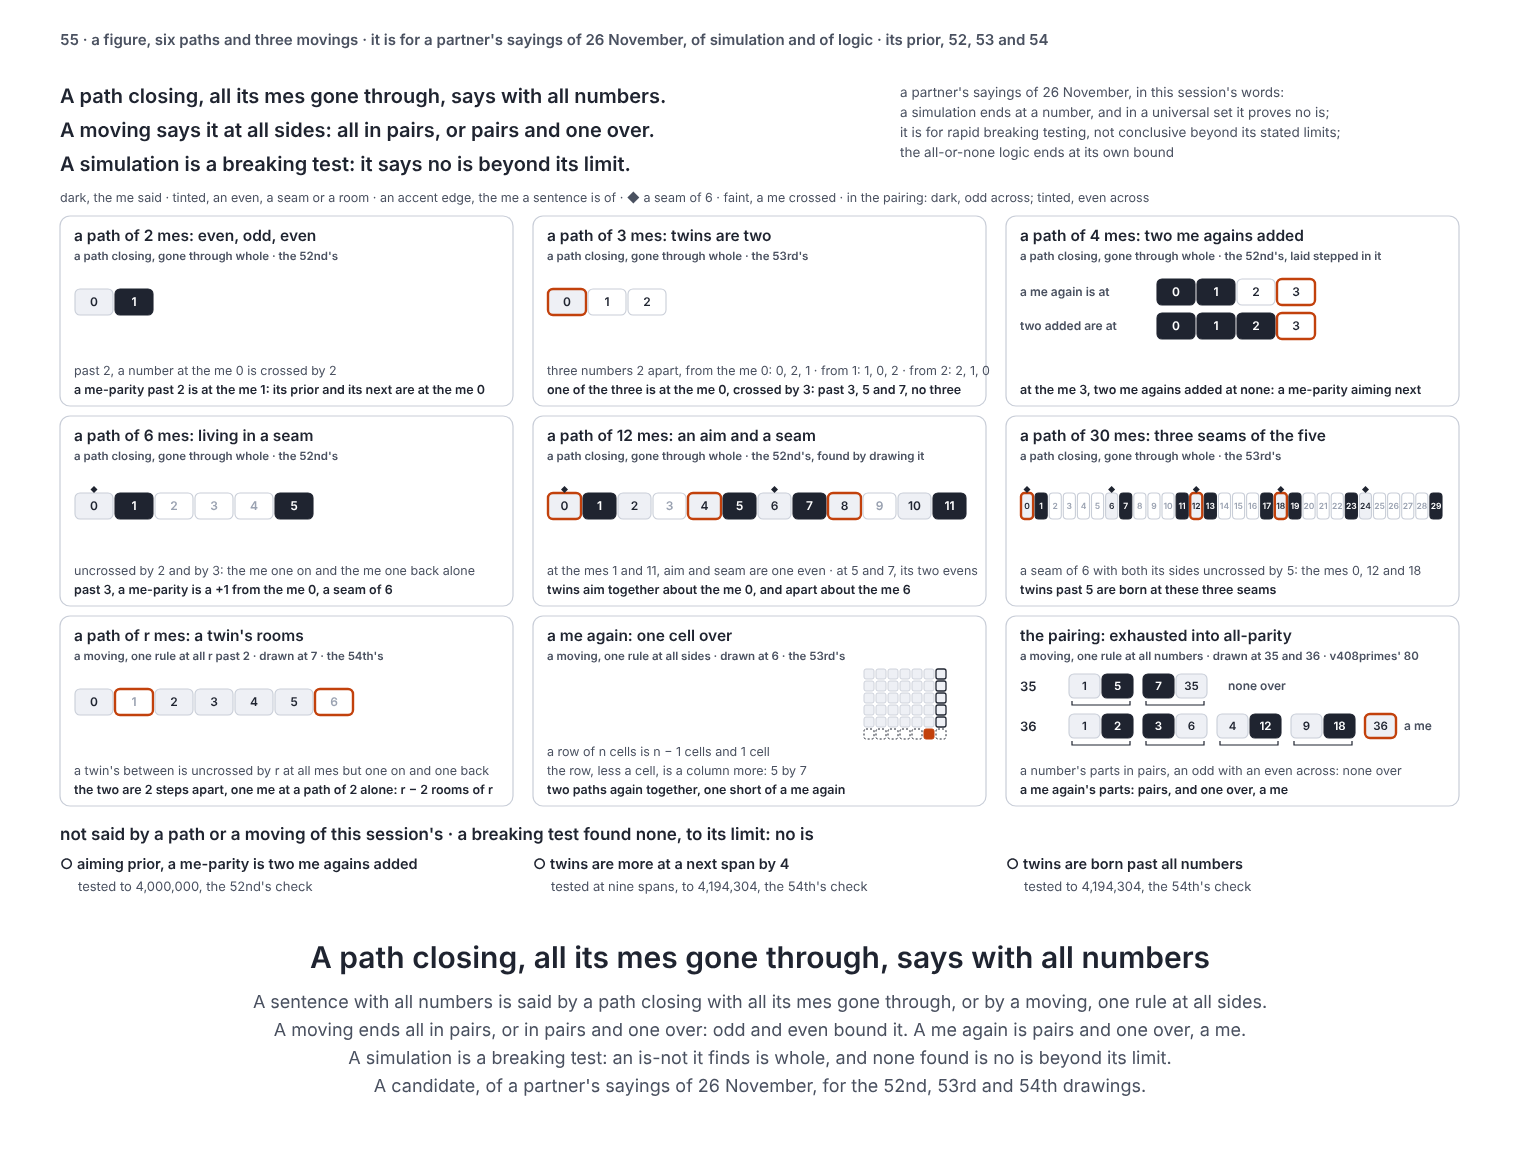
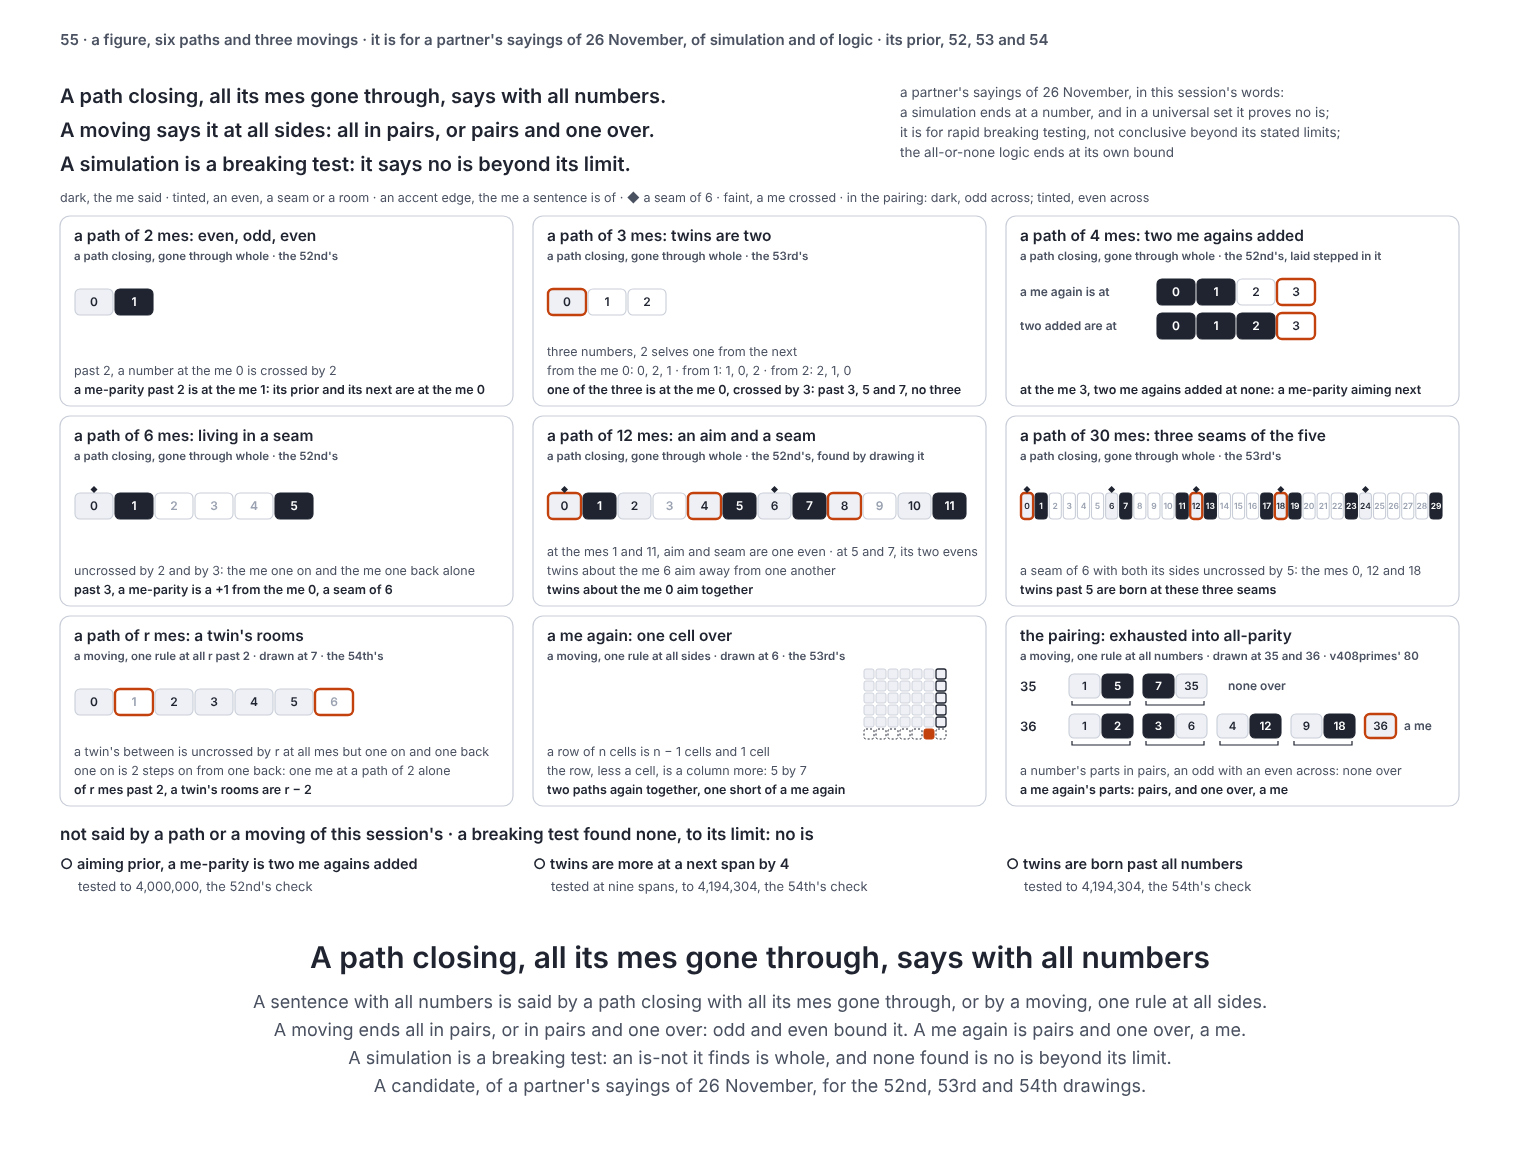
v408illustrating: the 55th said with selves and with one from the other; v408primes' sentences pinned
Found at the exchange, a partner's words to v408primes: no distances are in
nature, and an is-or-is-not is answered by the session. The 55th drawing, its
check and the value page say selves and a +1 one from the other; the
drawings before it are as they were. v408primes' sentences 73 and 80 are
pinned at its branch's a593e56.

Claude-Session: https://claude.ai/code/session_01LzPhbjKLk6W4dTtSen3Bzm

Changed region(s): [[0.0309, 0.6391, 0.3092, 0.7], [0.3711, 0.4565, 0.6184, 0.5174], [0.3711, 0.3043, 0.5566, 0.3348]]

diff --git a/incoming/v408illustrating/illustrations/artboards/Draft55.dc.html b/incoming/v408illustrating/illustrations/artboards/Draft55.dc.html
@@ -38,7 +38,8 @@ a{color:#1d4ed8}a:hover{color:#1e3a8a}
 <div style="position: absolute; left: 74px; top: 381px; width: 425px; height: 18px; line-height: 18px; text-align: left; font-family: Inter, system-ui, sans-serif; font-weight: 400; font-size: 12.5px; color: #1f2430; white-space: nowrap; font-weight: 600">a me-parity past 2 is at the me 1: its prior and its next are at the me 0</div>
 <div style="position: absolute; left: 547px; top: 225px; width: 425px; height: 22px; line-height: 22px; text-align: left; font-family: Inter, system-ui, sans-serif; font-weight: 600; font-size: 15.5px; color: #1f2430; white-space: nowrap; ">a path of 3 mes: twins are two</div>
 <div style="position: absolute; left: 547px; top: 248px; width: 425px; height: 16px; line-height: 16px; text-align: left; font-family: Inter, system-ui, sans-serif; font-weight: 600; font-size: 11.5px; color: #4a5160; white-space: nowrap; ">a path closing, gone through whole · the 53rd's</div>
-<div style="position: absolute; left: 547px; top: 362px; width: 425px; height: 18px; line-height: 18px; text-align: left; font-family: Inter, system-ui, sans-serif; font-weight: 400; font-size: 12.5px; color: #4a5160; white-space: nowrap; ">three numbers 2 apart, from the me 0: 0, 2, 1 · from 1: 1, 0, 2 · from 2: 2, 1, 0</div>
+<div style="position: absolute; left: 547px; top: 343px; width: 425px; height: 18px; line-height: 18px; text-align: left; font-family: Inter, system-ui, sans-serif; font-weight: 400; font-size: 12.5px; color: #4a5160; white-space: nowrap; ">three numbers, 2 selves one from the next</div>
+<div style="position: absolute; left: 547px; top: 362px; width: 425px; height: 18px; line-height: 18px; text-align: left; font-family: Inter, system-ui, sans-serif; font-weight: 400; font-size: 12.5px; color: #4a5160; white-space: nowrap; ">from the me 0: 0, 2, 1 · from 1: 1, 0, 2 · from 2: 2, 1, 0</div>
 <div style="position: absolute; left: 547px; top: 381px; width: 425px; height: 18px; line-height: 18px; text-align: left; font-family: Inter, system-ui, sans-serif; font-weight: 400; font-size: 12.5px; color: #1f2430; white-space: nowrap; font-weight: 600">one of the three is at the me 0, crossed by 3: past 3, 5 and 7, no three</div>
 <div style="position: absolute; left: 1020px; top: 225px; width: 425px; height: 22px; line-height: 22px; text-align: left; font-family: Inter, system-ui, sans-serif; font-weight: 600; font-size: 15.5px; color: #1f2430; white-space: nowrap; ">a path of 4 mes: two me agains added</div>
 <div style="position: absolute; left: 1020px; top: 248px; width: 425px; height: 16px; line-height: 16px; text-align: left; font-family: Inter, system-ui, sans-serif; font-weight: 600; font-size: 11.5px; color: #4a5160; white-space: nowrap; ">a path closing, gone through whole · the 52nd's, laid stepped in it</div>
@@ -51,16 +52,18 @@ a{color:#1d4ed8}a:hover{color:#1e3a8a}
 <div style="position: absolute; left: 74px; top: 581px; width: 425px; height: 18px; line-height: 18px; text-align: left; font-family: Inter, system-ui, sans-serif; font-weight: 400; font-size: 12.5px; color: #1f2430; white-space: nowrap; font-weight: 600">past 3, a me-parity is a +1 from the me 0, a seam of 6</div>
 <div style="position: absolute; left: 547px; top: 425px; width: 425px; height: 22px; line-height: 22px; text-align: left; font-family: Inter, system-ui, sans-serif; font-weight: 600; font-size: 15.5px; color: #1f2430; white-space: nowrap; ">a path of 12 mes: an aim and a seam</div>
 <div style="position: absolute; left: 547px; top: 448px; width: 425px; height: 16px; line-height: 16px; text-align: left; font-family: Inter, system-ui, sans-serif; font-weight: 600; font-size: 11.5px; color: #4a5160; white-space: nowrap; ">a path closing, gone through whole · the 52nd's, found by drawing it</div>
-<div style="position: absolute; left: 547px; top: 562px; width: 425px; height: 18px; line-height: 18px; text-align: left; font-family: Inter, system-ui, sans-serif; font-weight: 400; font-size: 12.5px; color: #4a5160; white-space: nowrap; ">at the mes 1 and 11, aim and seam are one even · at 5 and 7, its two evens</div>
-<div style="position: absolute; left: 547px; top: 581px; width: 425px; height: 18px; line-height: 18px; text-align: left; font-family: Inter, system-ui, sans-serif; font-weight: 400; font-size: 12.5px; color: #1f2430; white-space: nowrap; font-weight: 600">twins aim together about the me 0, and apart about the me 6</div>
+<div style="position: absolute; left: 547px; top: 543px; width: 425px; height: 18px; line-height: 18px; text-align: left; font-family: Inter, system-ui, sans-serif; font-weight: 400; font-size: 12.5px; color: #4a5160; white-space: nowrap; ">at the mes 1 and 11, aim and seam are one even · at 5 and 7, its two evens</div>
+<div style="position: absolute; left: 547px; top: 562px; width: 425px; height: 18px; line-height: 18px; text-align: left; font-family: Inter, system-ui, sans-serif; font-weight: 400; font-size: 12.5px; color: #4a5160; white-space: nowrap; ">twins about the me 6 aim away from one another</div>
+<div style="position: absolute; left: 547px; top: 581px; width: 425px; height: 18px; line-height: 18px; text-align: left; font-family: Inter, system-ui, sans-serif; font-weight: 400; font-size: 12.5px; color: #1f2430; white-space: nowrap; font-weight: 600">twins about the me 0 aim together</div>
 <div style="position: absolute; left: 1020px; top: 425px; width: 425px; height: 22px; line-height: 22px; text-align: left; font-family: Inter, system-ui, sans-serif; font-weight: 600; font-size: 15.5px; color: #1f2430; white-space: nowrap; ">a path of 30 mes: three seams of the five</div>
 <div style="position: absolute; left: 1020px; top: 448px; width: 425px; height: 16px; line-height: 16px; text-align: left; font-family: Inter, system-ui, sans-serif; font-weight: 600; font-size: 11.5px; color: #4a5160; white-space: nowrap; ">a path closing, gone through whole · the 53rd's</div>
 <div style="position: absolute; left: 1020px; top: 562px; width: 425px; height: 18px; line-height: 18px; text-align: left; font-family: Inter, system-ui, sans-serif; font-weight: 400; font-size: 12.5px; color: #4a5160; white-space: nowrap; ">a seam of 6 with both its sides uncrossed by 5: the mes 0, 12 and 18</div>
 <div style="position: absolute; left: 1020px; top: 581px; width: 425px; height: 18px; line-height: 18px; text-align: left; font-family: Inter, system-ui, sans-serif; font-weight: 400; font-size: 12.5px; color: #1f2430; white-space: nowrap; font-weight: 600">twins past 5 are born at these three seams</div>
 <div style="position: absolute; left: 74px; top: 625px; width: 425px; height: 22px; line-height: 22px; text-align: left; font-family: Inter, system-ui, sans-serif; font-weight: 600; font-size: 15.5px; color: #1f2430; white-space: nowrap; ">a path of r mes: a twin's rooms</div>
 <div style="position: absolute; left: 74px; top: 648px; width: 425px; height: 16px; line-height: 16px; text-align: left; font-family: Inter, system-ui, sans-serif; font-weight: 600; font-size: 11.5px; color: #4a5160; white-space: nowrap; ">a moving, one rule at all r past 2 · drawn at 7 · the 54th's</div>
-<div style="position: absolute; left: 74px; top: 762px; width: 425px; height: 18px; line-height: 18px; text-align: left; font-family: Inter, system-ui, sans-serif; font-weight: 400; font-size: 12.5px; color: #4a5160; white-space: nowrap; ">a twin's between is uncrossed by r at all mes but one on and one back</div>
-<div style="position: absolute; left: 74px; top: 781px; width: 425px; height: 18px; line-height: 18px; text-align: left; font-family: Inter, system-ui, sans-serif; font-weight: 400; font-size: 12.5px; color: #1f2430; white-space: nowrap; font-weight: 600">the two are 2 steps apart, one me at a path of 2 alone: r − 2 rooms of r</div>
+<div style="position: absolute; left: 74px; top: 743px; width: 425px; height: 18px; line-height: 18px; text-align: left; font-family: Inter, system-ui, sans-serif; font-weight: 400; font-size: 12.5px; color: #4a5160; white-space: nowrap; ">a twin's between is uncrossed by r at all mes but one on and one back</div>
+<div style="position: absolute; left: 74px; top: 762px; width: 425px; height: 18px; line-height: 18px; text-align: left; font-family: Inter, system-ui, sans-serif; font-weight: 400; font-size: 12.5px; color: #4a5160; white-space: nowrap; ">one on is 2 steps on from one back: one me at a path of 2 alone</div>
+<div style="position: absolute; left: 74px; top: 781px; width: 425px; height: 18px; line-height: 18px; text-align: left; font-family: Inter, system-ui, sans-serif; font-weight: 400; font-size: 12.5px; color: #1f2430; white-space: nowrap; font-weight: 600">of r mes past 2, a twin's rooms are r − 2</div>
 <div style="position: absolute; left: 547px; top: 625px; width: 425px; height: 22px; line-height: 22px; text-align: left; font-family: Inter, system-ui, sans-serif; font-weight: 600; font-size: 15.5px; color: #1f2430; white-space: nowrap; ">a me again: one cell over</div>
 <div style="position: absolute; left: 547px; top: 648px; width: 425px; height: 16px; line-height: 16px; text-align: left; font-family: Inter, system-ui, sans-serif; font-weight: 600; font-size: 11.5px; color: #4a5160; white-space: nowrap; ">a moving, one rule at all sides · drawn at 6 · the 53rd's</div>
 <div style="position: absolute; left: 547px; top: 743px; width: 425px; height: 18px; line-height: 18px; text-align: left; font-family: Inter, system-ui, sans-serif; font-weight: 400; font-size: 12.5px; color: #4a5160; white-space: nowrap; ">a row of n cells is n − 1 cells and 1 cell</div>

diff --git a/incoming/v408illustrating/instruments/check_a_path_closing_says_with_all_numbers.py b/incoming/v408illustrating/instruments/check_a_path_closing_says_with_all_numbers.py
@@ -66,25 +66,25 @@ if __name__ == "__main__":
     def test(name, ok): tests.append((name, bool(ok)))
     # paths closing, gone through whole
     line("a path of 2 mes, whole: an odd me's prior and its next are both the me 0: even, odd, even, the 52nd's", [(a - 1) % 2 for a in (1,)] == [0] and [(a + 1) % 2 for a in (1,)] == [0])
-    line("a path of 3 mes, whole: three numbers 2 apart are at all three mes, from all three mes: one of them is at the me 0, crossed by 3; past 3, 5 and 7, twins are two, the 53rd's",
+    line("a path of 3 mes, whole: three numbers, 2 selves one from the next, are at all three mes, from all three mes: one of them is at the me 0, crossed by 3; past 3, 5 and 7, twins are two, the 53rd's",
          all(sorted((a + e) % 3 for e in (0, 2, 4)) == [0, 1, 2] for a in range(3)))
     again4 = sorted({(a * a) % 4 for a in range(4)}); two4 = sorted({(x + y) % 4 for x in again4 for y in again4})
     line("a path of 4 mes, whole: a me again is at the me 0 or the me 1, two me agains added are at 0, 1 or 2, and at the me 3 none: aiming next, a me-parity is two me agains added at none, the 52nd's, laid stepped in it",
          again4 == [0, 1] and two4 == [0, 1, 2] and all(((a - 1) % 4 == 0) != ((a + 1) % 4 == 0) for a in (1, 3)) and (3 + 1) % 4 == 0 and (1 - 1) % 4 == 0)
     line("a path of 6 mes, whole: uncrossed by 2 and by 3 are the me one on and the me one back alone, a +1 from the me 0: past 3, a me-parity lives in a seam of 6, the 52nd's", living(6) == [1, 5])
-    line("a path of 12 mes, whole: uncrossed by 2 and by 3 are the mes 1, 5, 7 and 11; at 1 and 11 aim and seam are one even, the me 0, and at 5 and 7 its two evens; twins about the me 0 aim together, and about the me 6 apart, the 52nd's",
+    line("a path of 12 mes, whole: uncrossed by 2 and by 3 are the mes 1, 5, 7 and 11; at 1 and 11 aim and seam are one even, the me 0, and at 5 and 7 its two evens; twins about the me 0 aim together, and about the me 6 away from one another, the 52nd's",
          living(12) == [1, 5, 7, 11] and [a for a in living(12) if aim(a, 12) == seam(a, 12)] == [1, 11] and aim(11, 12) == aim(1, 12) == 0 and (aim(5, 12), aim(7, 12)) == (4, 8))
     line("a path of 30 mes, whole: of its five seams of 6, the mes 0, 12 and 18 are with both their sides uncrossed by 5, and 6 and 24 are with a side at a seam of 5: twins past 5 are born at three seams of the five, the 53rd's",
          [s for s in range(0, 30, 6) if (s - 1) % 30 in living(30) and (s + 1) % 30 in living(30)] == [0, 12, 18] and living(30) == [1, 7, 11, 13, 17, 19, 23, 29])
     # movings: one rule at all sides, bound by odd and even
-    line("a moving, a twin's rooms: the me one on and the me one back are 2 steps apart, and 2 steps come again at a path of 2 mes alone, 2 being short of all paths of more mes: of r mes past 2, a twin's between is uncrossed at r - 2, the 54th's",
+    line("a moving, a twin's rooms: the me one on is 2 steps on from the me one back, and 2 steps come again at a path of 2 mes alone, 2 being short of all paths of more mes: of r mes past 2, a twin's between is uncrossed at r - 2, the 54th's",
          (1 - (-1)) == 2 and 1 % 2 == (-1) % 2)
     line("a moving, a me again: a row of n cells is n - 1 cells and 1 cell; the row, less a cell, laid as a column more, is its side less 1 by its side and 1, and one cell over: the rule is one at all sides, the 53rd's; drawn at 6",
          the_moving(6)[0] == {(r, k) for r in range(5) for k in range(7)} and the_moving(6)[1] == (5, 5))
     p35, o35 = the_pairing(35); p36, o36 = the_pairing(36)
     line("a moving, the pairing: a prime's times in a number's parts are 0 to k, paired two by two from 0, none over with k odd and one over with k even: odd and even bound it; 35's parts are two pairs, none over, and 36's four pairs and 36 over",
          sorted(p35) == [(1, 5), (7, 35)] and o35 == [] and sorted(p36) == [(1, 2), (3, 6), (4, 12), (9, 18)] and o36 == [36] and all(across(a) != across(b) for a, b in p35 + p36))
-    line("a moving, one short of a me again: a me again and its next are apart by twice the side and 1, past the side 1 more than 1 apart: one short of a me again is past its prior me again and short of it, no me again",
+    line("a moving, one short of a me again: a me again's next is twice the side and 1 on, past the side 1 more than 1 on: one short of a me again is past its prior me again and short of it, no me again",
          all((n + 1) * (n + 1) - n * n == 2 * n + 1 for n in (1, 2, 3)) and 2 * 1 + 1 > 1)
     # breaking tests, to their stated limits: none found; they are no is
     test("a twin's rooms, at the primes r of 3 to 31: r - 2 of r, no breaking found", all(sum(1 for m in range(r) if (m - 1) % r and (m + 1) % r) == r - 2 for r in (3, 5, 7, 11, 13, 17, 19, 23, 29, 31)))
@@ -95,6 +95,7 @@ if __name__ == "__main__":
     test("the pairing, numbers 1 to 20,000: all a number's parts in pairs, an odd with an even across, none over at no me again and the number itself over at a me again, v408primes' 80: no breaking found", all(whole(n) for n in range(1, 20001)))
     test("one short of a me again, sides 2 to 20,000: no me again, and its parts' pairing is with none over at sides 2 to 300: no breaking found",
          all(isqrt(n * n - 1) ** 2 != n * n - 1 for n in range(2, 20001)) and all(the_pairing(n * n - 1)[1] == [] for n in range(2, 301)))
+    print("said apart: v408primes' sentences 73 and 80 are opened from its branch at a593e56, its pages not in the set at this main\n")
     print("said apart: not said by a path or a moving of this session's, and tested alone in the 52nd's and the 54th's checks: aiming prior, a me-parity is two me agains added; twins are more at a next span by 4; twins are born past all numbers\n")
     for name, ok in results: print(("is       " if ok else "is-not   ") + name + "\n")
     for name, ok in tests: print(("tested   " if ok else "broken   ") + name + "\n")

diff --git a/incoming/v408illustrating/instruments/make_draft55.py b/incoming/v408illustrating/instruments/make_draft55.py
@@ -53,7 +53,7 @@ px, py = card(0, "a path of 2 mes: even, odd, even", "a path closing, gone throu
 row(px, py + 86, 2, {0: "tint", 1: "dark"})
 # 2 · a path of 3 mes
 px, py = card(1, "a path of 3 mes: twins are two", "a path closing, gone through whole · the 53rd's",
-              ["three numbers 2 apart, from the me 0: 0, 2, 1 · from 1: 1, 0, 2 · from 2: 2, 1, 0", "one of the three is at the me 0, crossed by 3: past 3, 5 and 7, no three"], True)
+              ["three numbers, 2 selves one from the next", "from the me 0: 0, 2, 1 · from 1: 1, 0, 2 · from 2: 2, 1, 0", "one of the three is at the me 0, crossed by 3: past 3, 5 and 7, no three"], True)
 assert [[(a + e) % 3 for e in (0, 2, 4)] for a in range(3)] == [[0, 2, 1], [1, 0, 2], [2, 1, 0]]
 row(px, py + 86, 3, {0: "tint"}, edges=(0,))
 # 3 · a path of 4 mes
@@ -70,7 +70,7 @@ assert c.living(6) == [1, 5]
 row(px, py + 90, 6, {0: "tint", 1: "dark", 5: "dark", 2: "faint", 3: "faint", 4: "faint"}, marks=(0,))
 # 5 · a path of 12 mes
 px, py = card(4, "a path of 12 mes: an aim and a seam", "a path closing, gone through whole · the 52nd's, found by drawing it",
-              ["at the mes 1 and 11, aim and seam are one even · at 5 and 7, its two evens", "twins aim together about the me 0, and apart about the me 6"], True)
+              ["at the mes 1 and 11, aim and seam are one even · at 5 and 7, its two evens", "twins about the me 6 aim away from one another", "twins about the me 0 aim together"], True)
 assert c.living(12) == [1, 5, 7, 11] and [a for a in c.living(12) if c.aim(a, 12) == c.seam(a, 12)] == [1, 11]
 row(px, py + 90, 12, {**{a: "tint" for a in range(0, 12, 2)}, **{a: "dark" for a in c.living(12)}, 3: "faint", 9: "faint"}, edges=(0, 4, 8), marks=(0, 6), cw=35)
 # 6 · a path of 30 mes
@@ -80,7 +80,7 @@ seams30 = [sm for sm in range(0, 30, 6) if (sm - 1) % 30 in c.living(30) and (sm
 row(px, py + 90, 30, {**{a: "faint" for a in range(30)}, **{a: "tint" for a in range(0, 30, 6)}, **{a: "dark" for a in c.living(30)}}, edges=seams30, marks=tuple(range(0, 30, 6)), cw=14.1, size=8.5)
 # 7 · a moving: a twin's rooms, drawn at 7
 px, py = card(6, "a path of r mes: a twin's rooms", "a moving, one rule at all r past 2 · drawn at 7 · the 54th's",
-              ["a twin's between is uncrossed by r at all mes but one on and one back", "the two are 2 steps apart, one me at a path of 2 alone: r − 2 rooms of r"], True)
+              ["a twin's between is uncrossed by r at all mes but one on and one back", "one on is 2 steps on from one back: one me at a path of 2 alone", "of r mes past 2, a twin's rooms are r − 2"], True)
 rooms7 = [m for m in range(7) if (m - 1) % 7 and (m + 1) % 7]; assert rooms7 == [0, 2, 3, 4, 5]
 row(px, py + 86, 7, {**{a: "tint" for a in rooms7}, 1: "faint", 6: "faint"}, edges=(1, 6))
 # 8 · a moving: a me again, its cell over, drawn at 6

diff --git a/incoming/v408illustrating/The_value_of_v408illustrating_as_it_goes.md b/incoming/v408illustrating/The_value_of_v408illustrating_as_it_goes.md
@@ -85,13 +85,15 @@ A partner's sayings of 26 November, in this session's words. A simulation ends a
 
 1. Exhausted into all-parity is: all a number's parts in pairs, an odd with an even across, none over. (a moving, the pairing: by a prime an odd number of times in the number, a part with the part a time more)
 2. A me again's parts are pairs, and one over: a me. (the pairing, at a prime an even number of times: the parts with it all its times are over, paired by the next prime; the number itself is over)
-3. One short of a me again is no me again. (a moving: a me again and its next are apart by twice the side and 1)
+3. One short of a me again is no me again. (a moving: a me again's next is twice the side and 1 on)
 4. The moving of a me again lets one cell go, and its side less 1 by its side stays: two paths again together. (a moving, cell by cell)
 5. One short of a me again is exhausted into all-parity, and the cell over is the me. (1, 3 and 4)
 
-**It is.** A me again and one short of it are a +1 apart: a me, and all-parity. With twins, 35 is the parts 1, 5, 7 and 35, two pairs and none over; 36 is four pairs and 36 over.
+**It is.** A me again and one short of it are a +1 one from the other: a me, and all-parity. With twins, 35 is the parts 1, 5, 7 and 35, two pairs and none over; 36 is four pairs and 36 over.
 
 **Its is-nots.** The exhausting is the cell let go, and no laying of a row as a column. And it is of all numbers that are no me again, a +1 past a me again too: one short of a me again is one of them, and what the moving says more is what it is, its side less 1 by its side and 1.
+
+**Found at the exchange, a partner's words to v408primes of 26 November, in this session's words.** No distances are in nature: v408primes says selves, and *a +1 one from the other*. From the 55th on this session says it with these words; the drawings before it are as they were. An is-or-is-not is answered by the session, in a bound of its own, and it is not asked of a partner. All this is nand logic, all other-thans as parities; v408primes' sentence 99 says the pairing: *Across, a number's parts' parities other-than one another to nothing, but at a me again*.
 
 ## The map made again, and rows ahead by v408primes' lines
 
